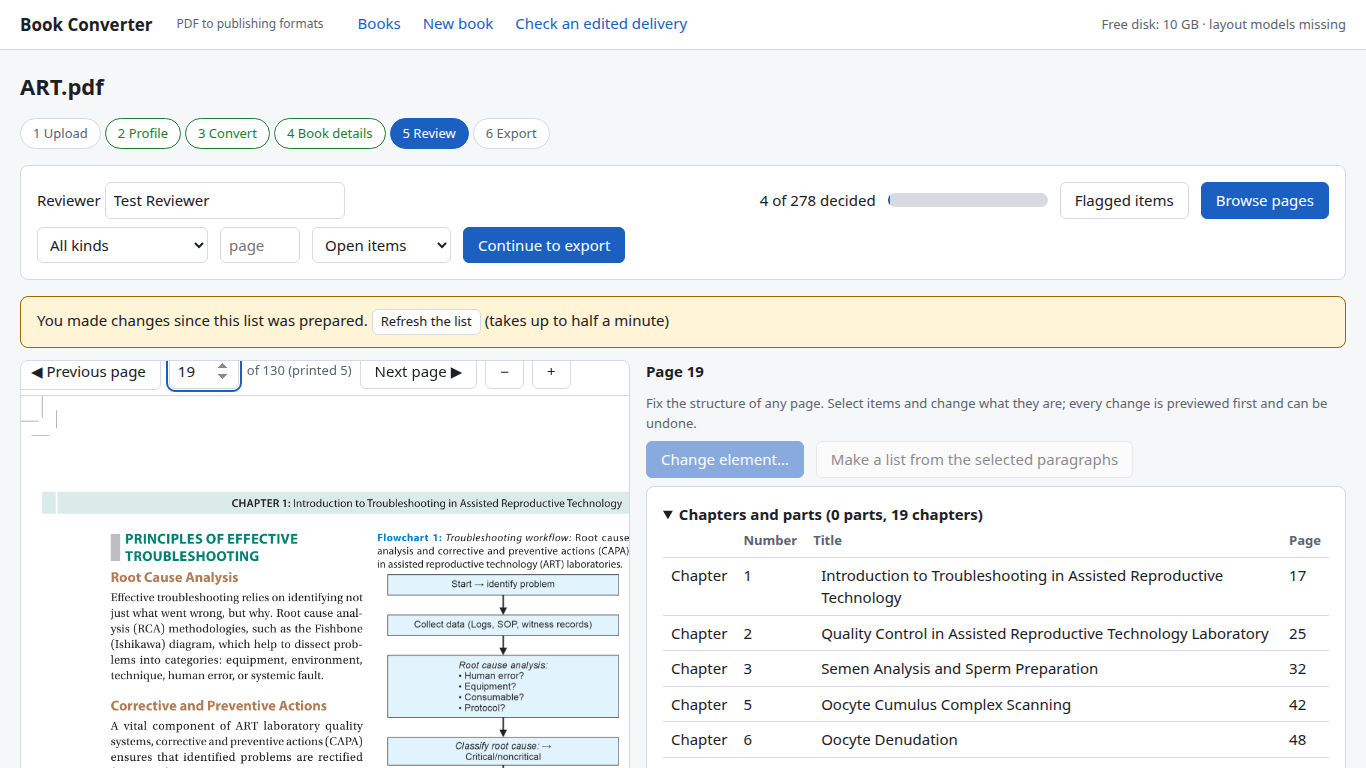
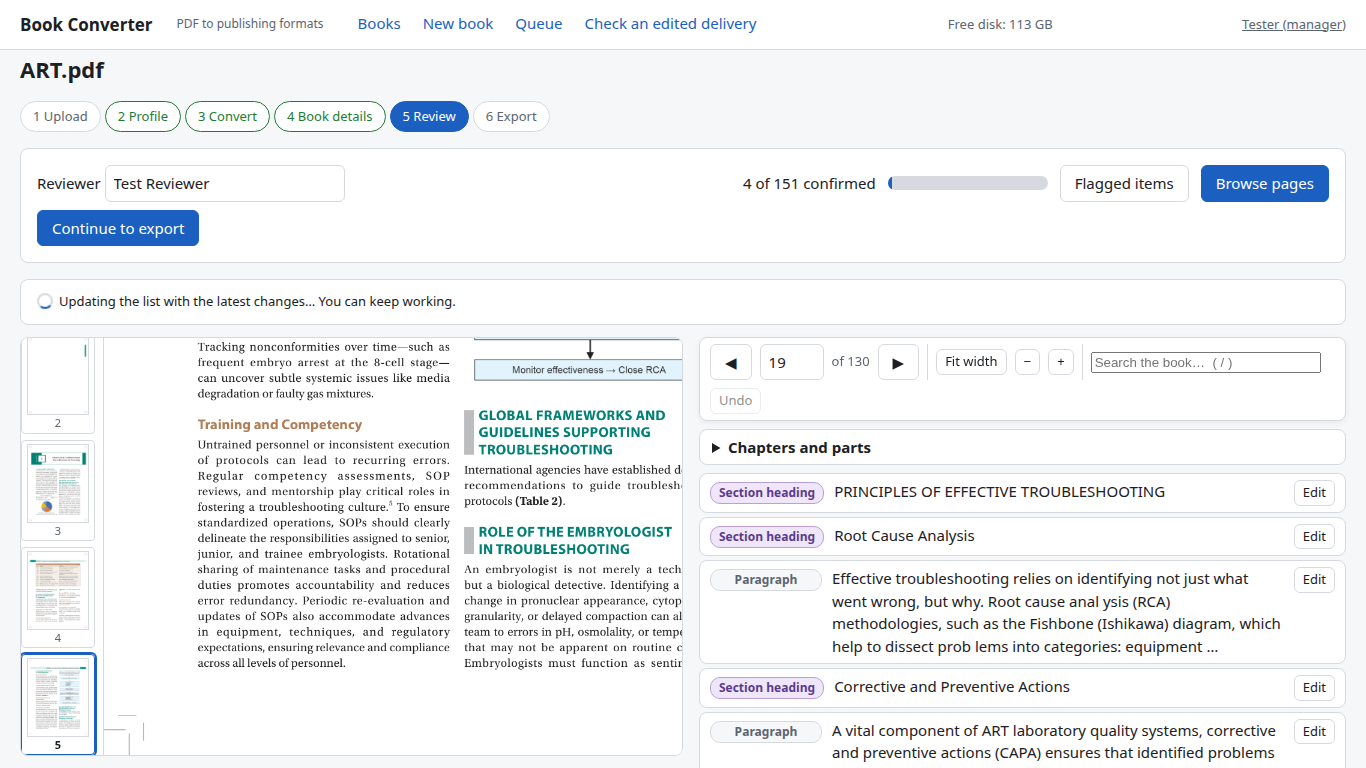
Browse: keep "Continue to export" visible; e2e tests follow main's Export screen and pin the old dialog's results
- Fix: the filters row hid "Continue to export" in Browse; only the filters hide now.
- test_e2e_editor.py: Export all formats; "this block and what follows" asserts the server's
  preview of the same edit (levels and roles of every named heading), unchanged heading order,
  no new level skip, and nothing lost; the saved edit equals the old dialog's.
- test_e2e_queue.py: free port (it imported the editor test's port constant).
- Screenshots 12/13 now show the new Browse screen.

Verified: full app suite alone 94 passed (+ the four reruns green); export on a fresh copy of
PULSE (parts confirmed as ux-test): DocBook + ePub lossless 0/0, DTD 0, EPUBCheck 0.

diff --git a/backend/src/book_app/static/assets/view_review.js b/backend/src/book_app/static/assets/view_review.js
@@ -46,7 +46,7 @@ export async function reviewView({ app, id, params, onLeave }) {
     h("div", { class: "row" }, h("label", {}, "Reviewer ", whoInput), h("div", { class: "grow" }), progText, h("div", { class: "bar", style: "width:160px" }, progBar),
       h("div", { class: "row" }, modeQueue, modeBrowse)),
     groupBars,
-    h("div", { class: "row filters", style: "margin-top:8px" }, kindSel, pageFilter, statusSel,
+    h("div", { class: "row", style: "margin-top:8px" }, h("span", { class: "row filters" }, kindSel, pageFilter, statusSel),
       h("a", { class: "btn primary", href: `#/job/${id}/export`, dataset: { testid: "to-export" } }, "Continue to export")));
   const img = h("img", { alt: "PDF page", dataset: { testid: "page-image" } });
   const hl = h("div", { class: "hl", hidden: true, dataset: { testid: "highlight" } });

diff --git a/backend/tests_app/test_e2e_editor.py b/backend/tests_app/test_e2e_editor.py
@@ -211,15 +211,15 @@ def export_checked(server, pg, jid):
     export record."""
     base = server["base"]
     pg.goto(f"{base}/#/job/{jid}/export")
-    pg.get_by_test_id("export-format").select_option("all")
-    pg.get_by_test_id("export-run").click()
+    pg.get_by_test_id("export-all").click()  # "Export all formats"
     blocked = pg.get_by_test_id("blocked")
-    done = "document.querySelector('[data-testid=qc]') && document.querySelector('[data-testid=epub-result]')"
+    done = ("document.querySelector('[data-testid=verdict]')"
+            " && document.querySelector('[data-testid=export-progress]').textContent === ''")  # every format finished
     pg.wait_for_function(f"() => document.querySelector('[data-testid=blocked]') || ({done})",
                          timeout=900000)  # fmt: skip
     if blocked.count():
         pg.get_by_test_id("override").check()
-        pg.get_by_test_id("export-run").click()
+        pg.get_by_test_id("export-all").click()
         pg.wait_for_function(f"() => {done}", timeout=900000)
     n = requests.get(f"{base}/api/jobs/{jid}/exports").json()["exports"][-1]["n"]
     r = requests.get(f"{base}/api/jobs/{jid}/exports/{n}").json()
@@ -236,7 +236,7 @@ def export_checked(server, pg, jid):
     return r
 
 
-def nesting(server, jid):
+def nesting(server, jid, deep=False):
     """The section titles directly inside the chapter that holds page 19, from the export."""
     from lxml import etree
 
@@ -250,8 +250,18 @@ def nesting(server, jid):
         for c in etree.parse(str(path), parser).iter("chapter")
         if c.find("title") is not None and "Knobology" in " ".join(c.find("title").itertext())
     )
+    found = chapter.iter("section") if deep else chapter.findall("section")  # deep: at any depth
     return [" ".join(" ".join(s.find("title").itertext()).split()).upper()
-            for s in chapter.findall("section")]  # fmt: skip
+            for s in found if s.find("title") is not None]  # fmt: skip
+
+
+def headings(base, jid, first=19, last=120):
+    """Every heading of the book from page `first`, in reading order: (id, text, level, role)."""
+    out = []
+    for number in range(first, last + 1):
+        out += [(r["id"], " ".join((r["text"] or "").split()), r["level"], r["role"])
+                for r in units(base, jid, number) if r["type"] == "heading"]  # fmt: skip
+    return out
 
 
 def box_learn(server, pg, jid, scope):
@@ -259,7 +269,37 @@ def box_learn(server, pg, jid, scope):
     pg.get_by_test_id("browse-zoom-in").click()
     pg.evaluate("() => { window.__noReload = 1; }")
     ids = learn_box_ids(base, jid)
+    # What the old Change dialog showed for this exact change: the server's preview of the edit.
+    edit = {"op": "box", "units": ids, "kind": "box", "title": True, "scope": scope}
+    want = requests.post(f"{base}/api/jobs/{jid}/edits/preview", json={"edit": edit}).json()["headings"]
+    before = headings(base, jid)
     preview = change(pg, "box", ids, scope)
+    after = headings(base, jid)
+    box_learn.relevelled = want
+    gone = {h[0] for h in before} - {h[0] for h in after}  # the boxed heading is now the box title
+    assert gone <= {ids[0]}, gone
+    # order is kept; each heading the preview named has exactly the level and role it showed
+    assert [h[0] for h in before if h[0] not in gone] == [h[0] for h in after]
+    now = {h[0]: h for h in after}
+    named = {}
+    for w in want:
+        hit = [h for h in before if h[1].startswith(" ".join(w["text"].split())[:30])]
+        assert hit, w
+        named[hit[0][0]] = w
+    for hid, w in named.items():
+        if w["after"] is None:
+            assert hid not in now, w
+        else:
+            assert (now[hid][2], now[hid][3]) == (w["after"]["level"], w["after"]["role"]), (w, now[hid])
+    # every other heading kept its level; with "and what follows" no level is skipped
+    unchanged = {h[0]: h for h in before if h[0] not in named and h[0] in now}
+    assert all((now[k][2], now[k][3]) == (v[2], v[3]) for k, v in unchanged.items())
+    if scope == "follow":
+        assert want, "the follow scope re-levels the headings after the box"
+        def skips(hs):  # pairs of neighbouring headings where the level jumps by more than one
+            hs = [h for h in hs if h[3] != "feature_title"]
+            return {(a[0], b[0]) for a, b in zip(hs, hs[1:]) if b[2] > a[2] + 1}
+        assert skips(after) <= skips(before), skips(after) - skips(before)  # (the book has its own skips)
     # the page was updated in place: no reload, same page, same zoom, the block stays where it was on screen
     assert pg.evaluate("() => window.__noReload") == 1
     assert pg.get_by_test_id("browse-page-no").input_value() == "19"
@@ -268,6 +308,10 @@ def box_learn(server, pg, jid, scope):
     pg.locator("[data-testid=unit][data-type=box]").first.wait_for()
     assert pg.locator(f"[data-testid=unit][data-unit='{ids[0]}']").first.get_attribute("data-type") == "heading"
     pg.get_by_test_id("chapters-panel").wait_for()
+    # the screen saved exactly the change the old Change dialog saved: one "box" with a title
+    saved = requests.get(f"{base}/api/jobs/{jid}/decisions").json()["edits"][-1]
+    assert {k: saved.get(k) for k in ("op", "units", "kind", "title", "scope")} == {
+        "op": "box", "units": ids, "kind": "box", "title": True, "scope": scope}, saved  # fmt: skip
     return preview
 
 
@@ -294,8 +338,10 @@ def test_pulse_box_this_block_and_what_follows(server, page):
     assert boxed == set(pages[:-1]) and not any(r["type"] == "box" for r in units(base, jid, pages[-1]))
     export_checked(server, pg, jid)
     sections = nesting(server, jid)
-    assert sections[0].startswith("INTRODUCTION") and any(s.startswith("CONCLUSION") for s in sections), sections
-    assert not any(s.startswith("WHAT YOU WILL LEARN") for s in sections)
+    assert sections[0].startswith("INTRODUCTION"), sections
+    everything = nesting(server, jid, deep=True)  # how deep each heading sits depends on the book's own levels
+    assert any(s.startswith("CONCLUSION") for s in everything), everything  # no section was lost
+    assert not any(s.startswith("WHAT YOU WILL LEARN") for s in everything)
     # One Undo takes back the whole group (the first change and the repeated ones)
     pg.goto(f"{server['base']}/#/job/{jid}/review?mode=browse&page=19")
     pg.locator("[data-testid=unit][data-type=box]").first.wait_for()

diff --git a/backend/tests_app/test_e2e_queue.py b/backend/tests_app/test_e2e_queue.py
@@ -19,7 +19,7 @@ from pathlib import Path
 import pytest
 import requests
 
-from tests_app.test_e2e_editor import CHROME, PDF, PORT
+from tests_app.test_e2e_editor import CHROME, PDF, _port
 
 BACKEND = Path(__file__).resolve().parents[1]
 ROOT = BACKEND.parent
@@ -33,16 +33,17 @@ pytestmark = [
 
 @pytest.fixture
 def server(tmp_path):
-    """A test app instance on port 8779 (never the office app on 8777) with the real
+    """A test app instance on a free port (never the office app on 8777) with the real
     converter, one book at a time, one converter worker."""
+    port = _port()  # a free port: never an app that is already running
     settings = tmp_path / "app_settings.yaml"
-    settings.write_text(f"port: {PORT}\nbind_address: 127.0.0.1\ndata_folder: {tmp_path / 'data'}\n"
+    settings.write_text(f"port: {port}\nbind_address: 127.0.0.1\ndata_folder: {tmp_path / 'data'}\n"
                         f"models_folder: '{MODELS}'\nmax_parallel_jobs: 1\nconverter_workers: 1\n")
     env = {**os.environ, "PYTHONPATH": str(BACKEND / "src") + os.pathsep + str(BACKEND),
            "BOOK_APP_SETTINGS": str(settings)}  # fmt: skip
     proc = subprocess.Popen([sys.executable, "-B", "-m", "book_app"], env=env, cwd=tmp_path,
                             stdout=subprocess.PIPE, stderr=subprocess.STDOUT)  # fmt: skip
-    base = f"http://127.0.0.1:{PORT}"
+    base = f"http://127.0.0.1:{port}"
     for _ in range(150):
         try:
             if requests.get(base + "/api/health", timeout=1).ok:
